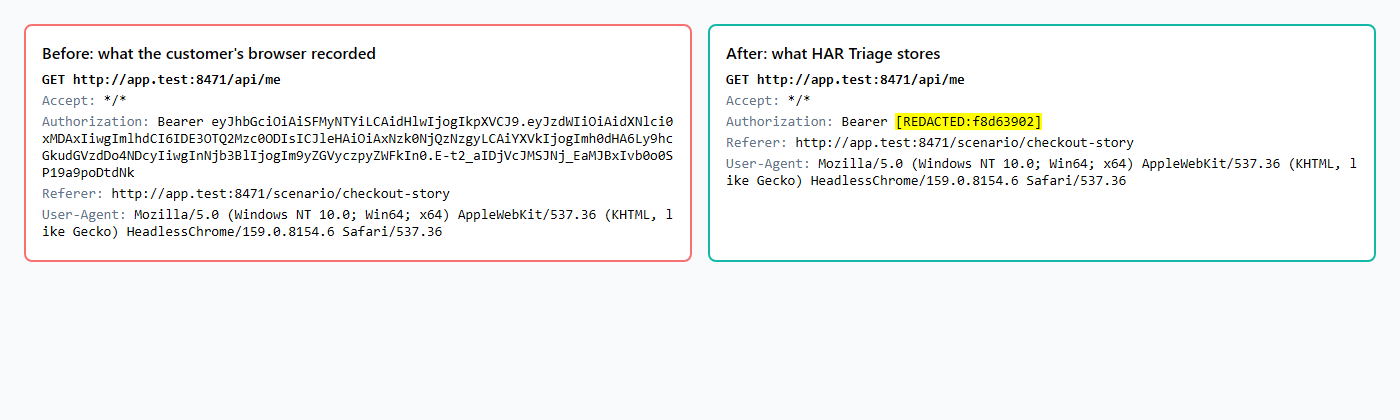
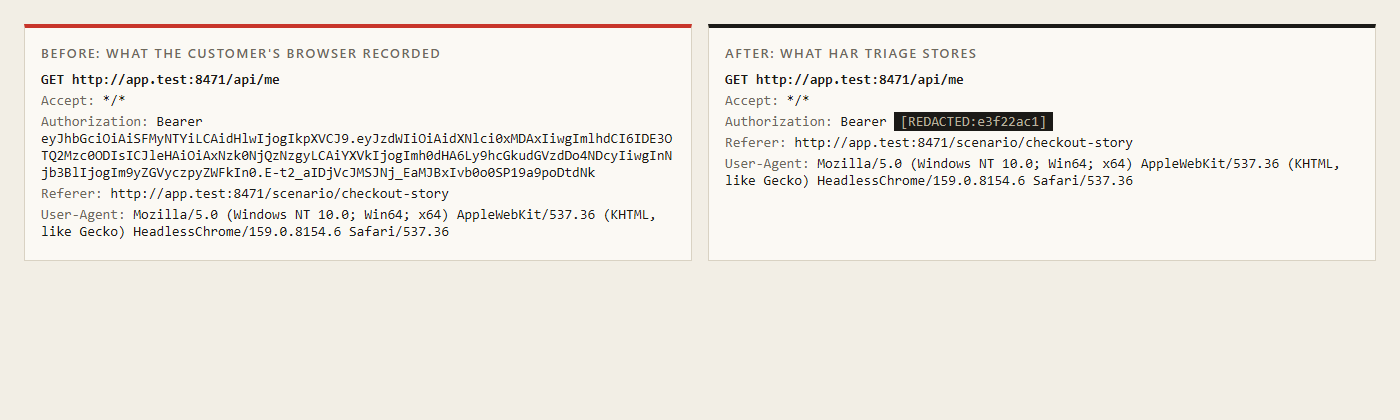
Recapture the screenshots and demo GIF in the new design

diff --git a/tools/screenshots.py b/tools/screenshots.py
@@ -53,9 +53,10 @@ def before_after(page: Page) -> None:
         return f"<section class={tone}><h2>{title}</h2><div class=url>{request['method']} {request['url']}</div>{headers}</section>"
 
     html = f"""<!doctype html><meta charset=utf-8><style>
-    body{{font:14px ui-monospace,Consolas,monospace;margin:0;padding:24px;background:#f8fafc;display:grid;grid-template-columns:1fr 1fr;gap:16px}}
-    section{{background:white;border-radius:8px;padding:16px;border:2px solid}} .raw{{border-color:#f87171}} .clean{{border-color:#14b8a6}}
-    h2{{font:600 16px system-ui;margin:0 0 8px}} .k{{color:#64748b}} div{{word-break:break-all;margin:4px 0}} .url{{font-weight:600}}
+    body{{font:14px "IBM Plex Mono",ui-monospace,Consolas,monospace;margin:0;padding:24px;background:#f2eee5;color:#1b1a17;display:grid;grid-template-columns:1fr 1fr;gap:16px}}
+    section{{background:#fbf9f4;padding:16px;border:1px solid #d9d2c3;border-top:4px solid}} .raw{{border-top-color:#c8352a}} .clean{{border-top-color:#1b1a17}}
+    h2{{font:600 13px system-ui;letter-spacing:.12em;text-transform:uppercase;margin:0 0 10px;color:#6e695d}} .k{{color:#6e695d}} div{{overflow-wrap:anywhere;margin:4px 0}} .url{{font-weight:600}}
+    mark{{background:#1b1a17;color:#b8b19f;padding:1px 6px}}
     </style>{block("Before: what the customer's browser recorded", raw, "raw")}{block("After: what HAR Triage stores", clean, "clean")}"""
     page.set_content(
         html.replace("[REDACTED:", "<mark>[REDACTED:").replace("]</div>", "]</mark></div>")
@@ -89,13 +90,13 @@ def main() -> None:
         page.get_by_test_id("finding").filter(has_text="R002").get_by_role(
             "button", name="Show"
         ).click()
-        page.locator("#requests").scroll_into_view_if_needed()
         page.get_by_role("complementary", name="Request 3").wait_for()
         page.wait_for_timeout(600)
-        page.evaluate("document.getElementById('requests').scrollIntoView()")
         shot(page, "waterfall-and-request")
-        page.evaluate("window.scrollTo(0, 0)")
-        page.get_by_text("Findings (").scroll_into_view_if_needed()
+        page.keyboard.press("Escape")
+        page.evaluate("document.getElementById('requests').scrollIntoView()")
+        shot(page, "waterfall")
+        page.evaluate("document.getElementById('findings-heading').scrollIntoView()")
         shot(page, "findings")
 
         page.goto(f"{WEB}/kb/R002-auth")
